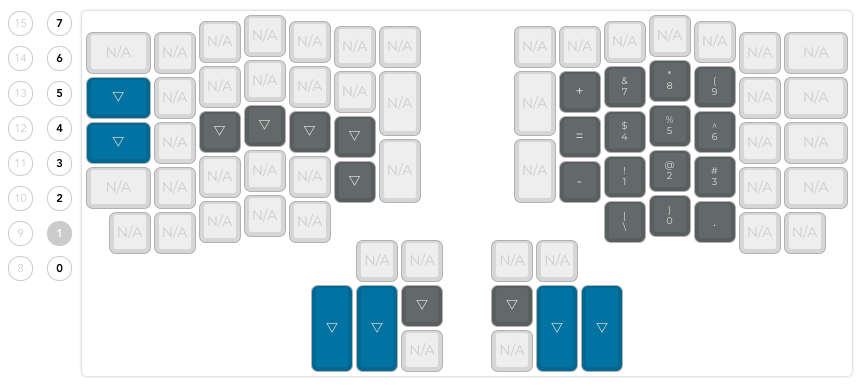
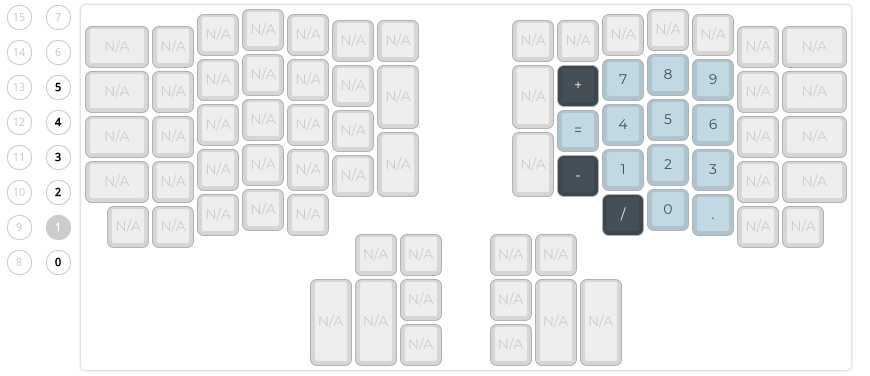
Update layouts.

diff --git a/readme.md b/readme.md
@@ -33,3 +33,7 @@ More information can be found in the QMK docs: <https://docs.qmk.fm>
  Layer 4
 
  ![Layer 4](https://github.com/luotaoruby/ergodox_qmk_layouts/blob/master/imgs/layer4.png)
+
+ Layer 5
+
+ ![Layer 5](https://github.com/luotaoruby/ergodox_qmk_layouts/blob/master/imgs/layer5.png)
